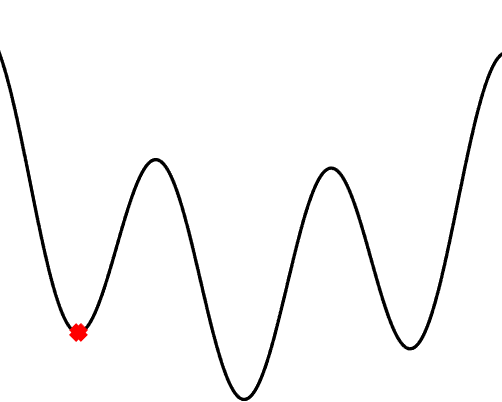
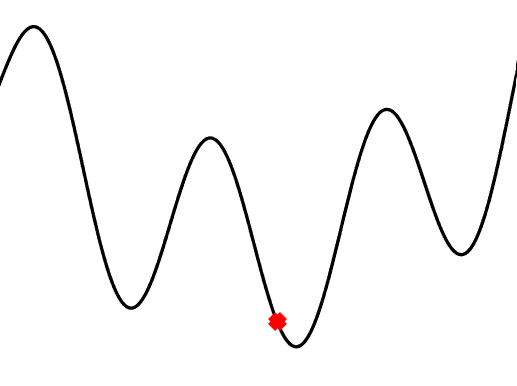
Den er nesten ferdig med test 4 landskap med plotting map.

diff --git a/MainFunksjon.m b/MainFunksjon.m
@@ -18,7 +18,7 @@ switch (func)
     case 3
         f =@(x)-cos(sqrt(x.^2+2*x+1))./sqrt(2*x.^2+x+1);
     case 4
-        f =@(x) x.^2/8 - 9 * sin(x+2);
+        f =@(x) x.^2/10 - 6 * cos(x+5);
 end
 xlabel(app.UIAxes,"X-axis",'fontsize',16,'color','b');
 ylabel(app.UIAxes,"Y-axis",'fontsize',16,'color','b');
